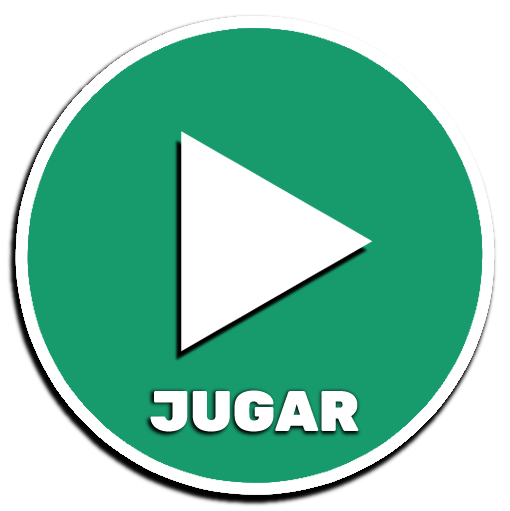
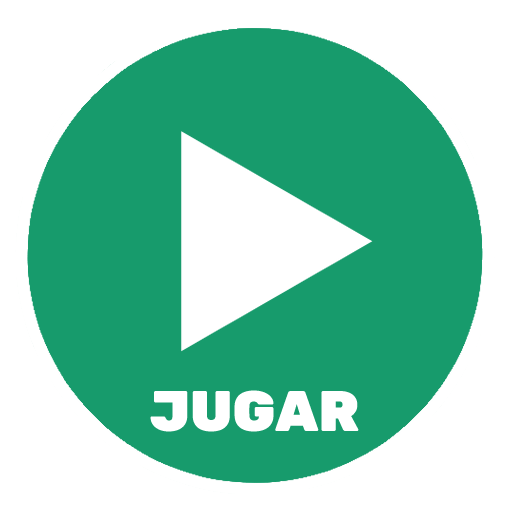
Sacando sombras.

diff --git a/escenas/loader/loader.go b/escenas/loader/loader.go
@@ -59,26 +59,6 @@ components {
   }
 }
 embedded_components {
-  id: "sprite"
-  type: "sprite"
-  data: "tile_set: \"/escenas/pantalla inicial/img/pantalla_inicial.atlas\"\n"
-  "default_animation: \"fondo inicio\"\n"
-  "material: \"/builtins/materials/sprite.material\"\n"
-  "blend_mode: BLEND_MODE_ALPHA\n"
-  ""
-  position {
-    x: 0.0
-    y: 0.0
-    z: 0.0
-  }
-  rotation {
-    x: 0.0
-    y: 0.0
-    z: 0.0
-    w: 1.0
-  }
-}
-embedded_components {
   id: "proto_cancion_1"
   type: "sound"
   data: "sound: \"/escenas/loader/proto_cancion_1.ogg\"\n"
